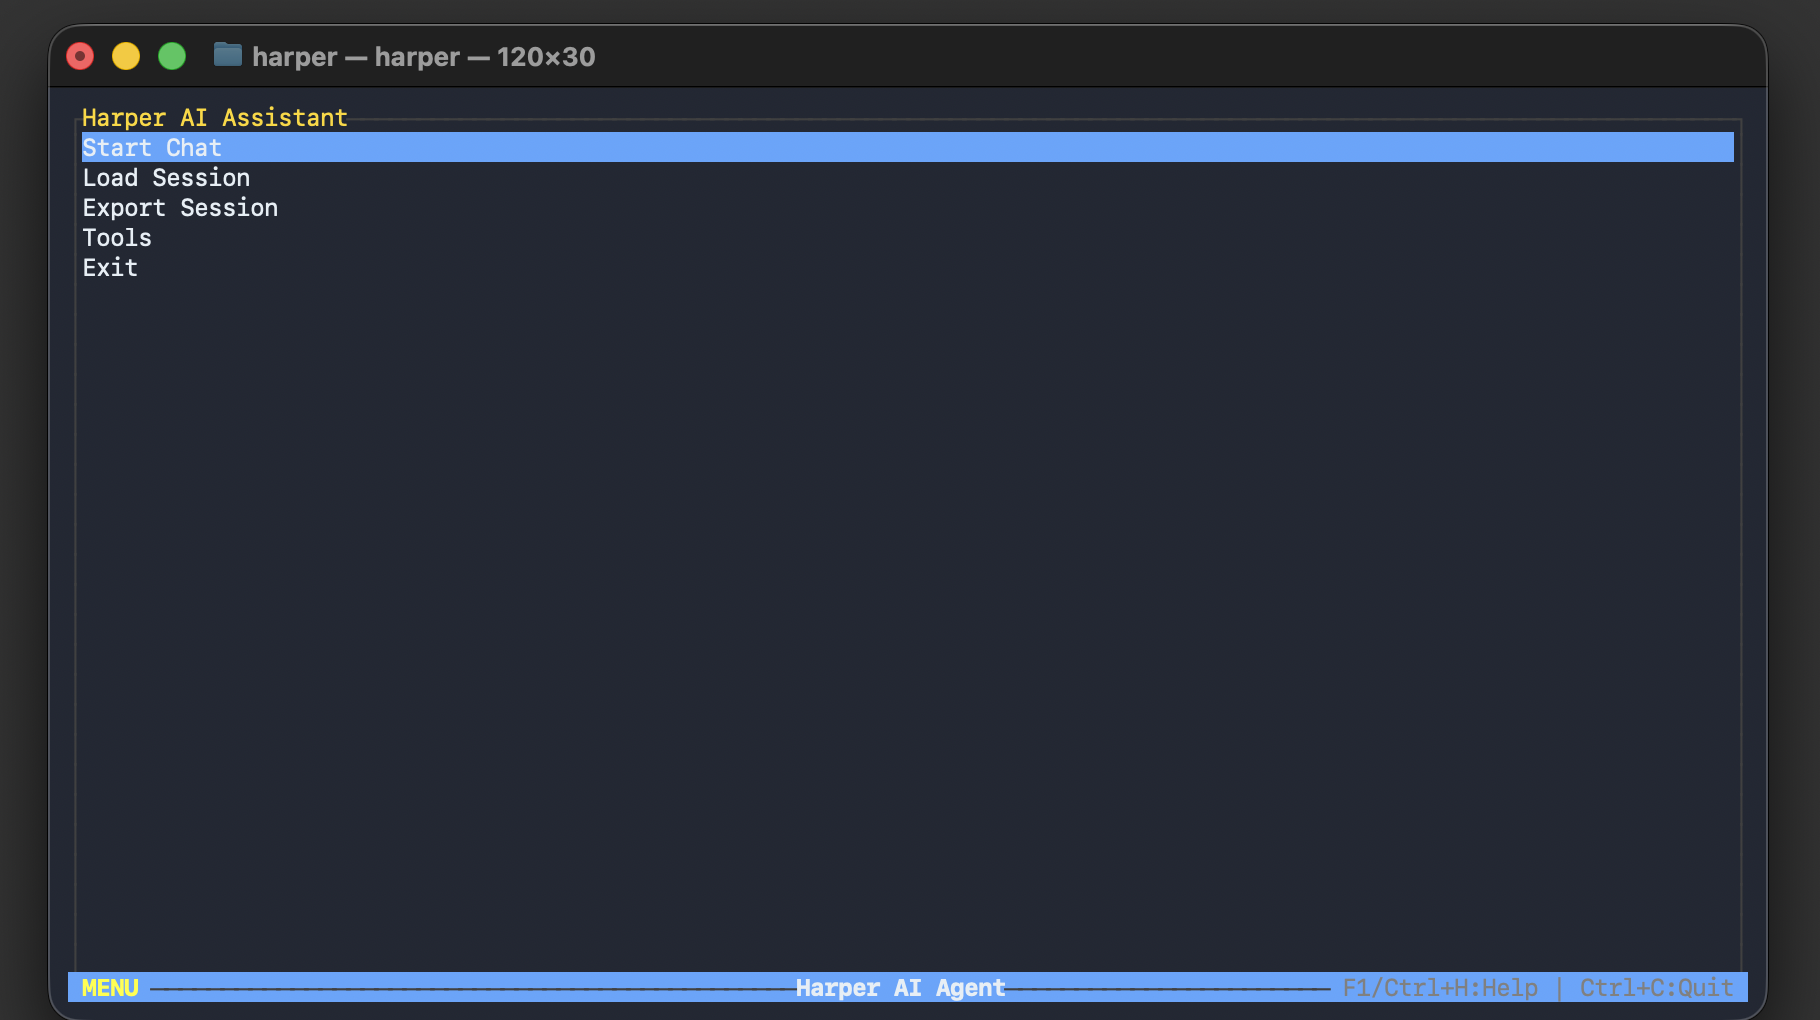
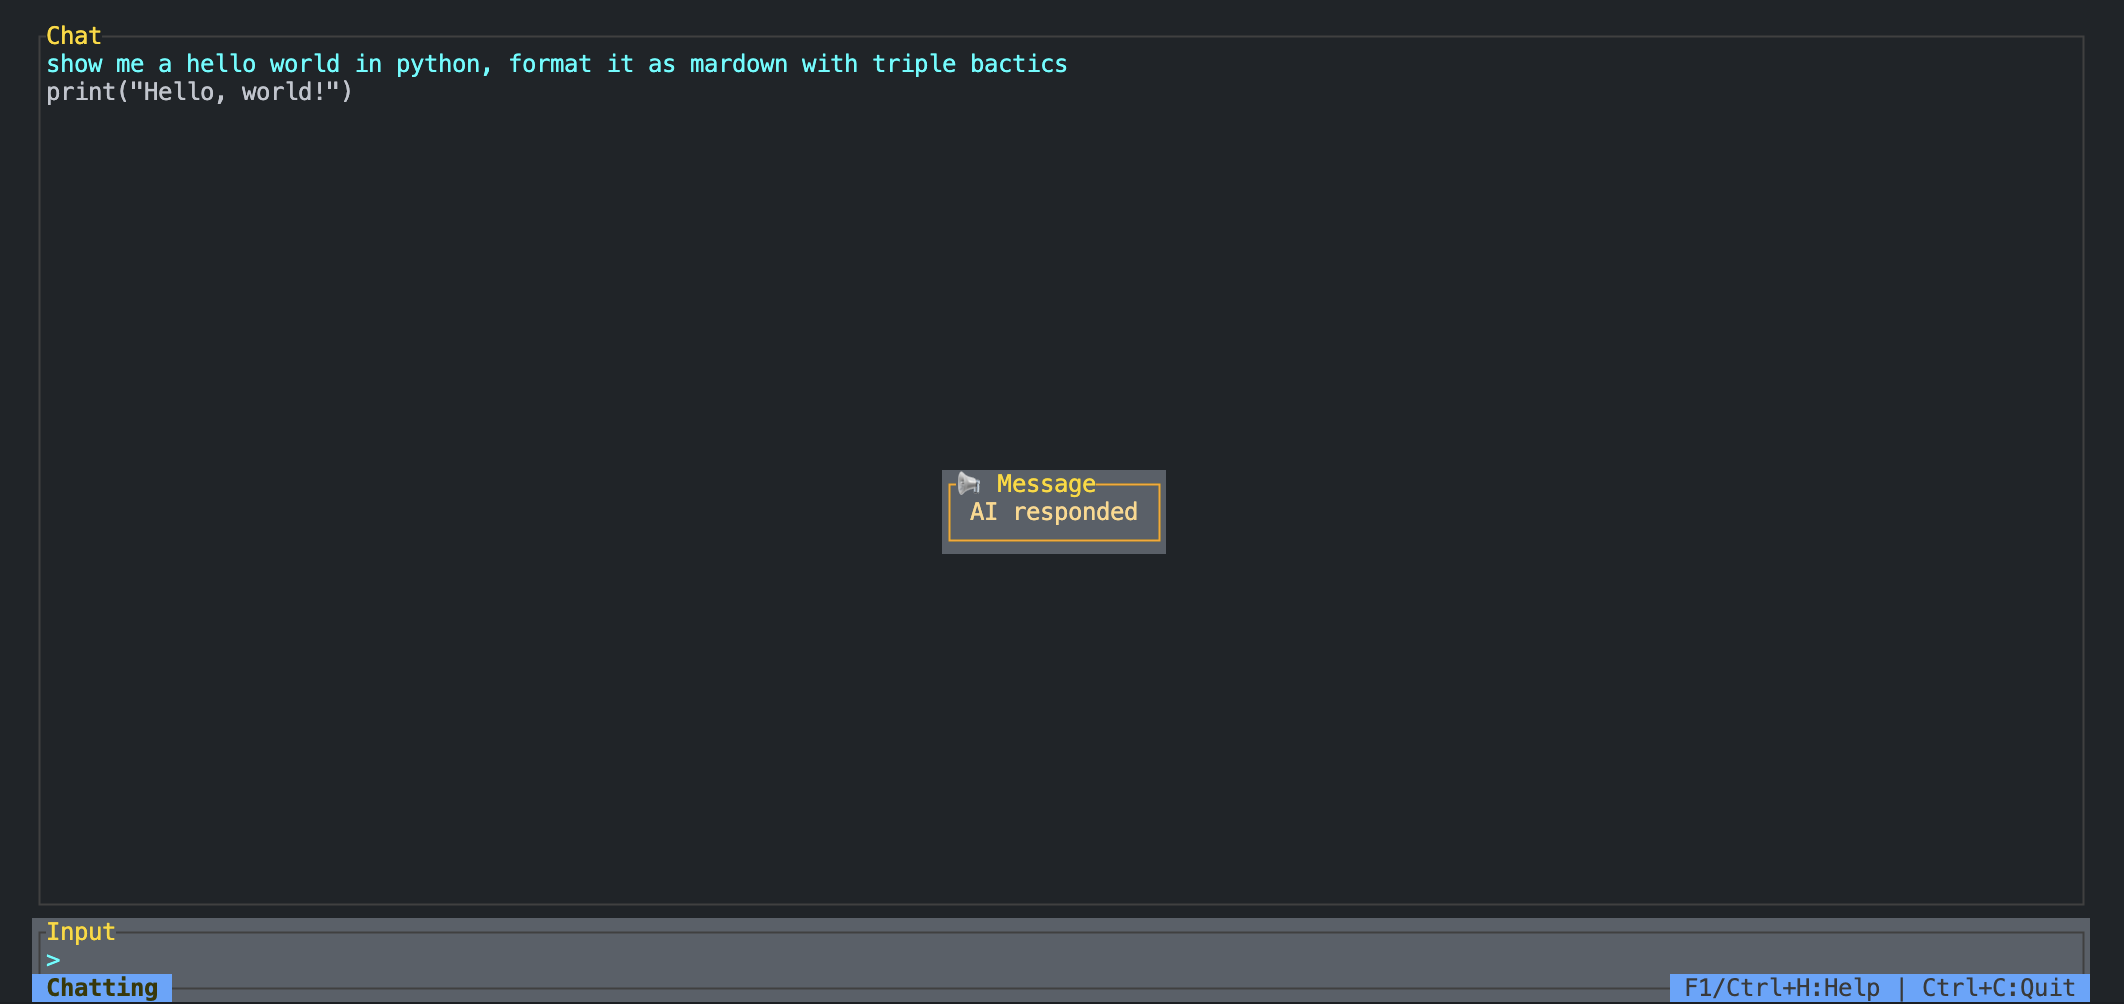
wip (#139)

Changed region(s): [[0.0, 0.8954, 0.9846, 1.0], [0.0, 0.0309, 0.9538, 0.2779], [0.4308, 0.4631, 0.5538, 0.5558]]

diff --git a/lib/harper-ui/src/interfaces/ui/widgets.rs b/lib/harper-ui/src/interfaces/ui/widgets.rs
@@ -102,15 +102,26 @@ pub fn draw(frame: &mut Frame, app: &TuiApp, theme: &Theme) {
             let message_lines: Vec<Line> = displayed_messages
                 .iter()
                 .flat_map(|msg| {
-                    let color = match msg.role.as_str() {
+                    let default_color = match msg.role.as_str() {
                         "user" => theme.input,
                         "assistant" => theme.output,
                         _ => theme.foreground,
                     };
-                    msg.content
-                        .lines()
-                        .map(|line| Line::styled(line, color))
-                        .collect::<Vec<_>>()
+                    let spans = parse_content_with_code(
+                        &theme.syntax_set,
+                        &theme.theme_set,
+                        &msg.content,
+                        default_color,
+                        &theme.syntax_theme,
+                    );
+                    if spans.is_empty() {
+                        msg.content
+                            .lines()
+                            .map(|line| Line::styled(line, default_color))
+                            .collect::<Vec<_>>()
+                    } else {
+                        vec![Line::from(spans)]
+                    }
                 })
                 .collect();
 
@@ -190,7 +201,7 @@ fn draw_menu(frame: &mut Frame, selected: usize, theme: &Theme) {
         .block(
             Block::default()
                 .borders(Borders::ALL)
-                .title("Harper AI Assistant")
+                .title("Harper")
                 .border_style(theme.border_style())
                 .title_style(theme.title_style()),
         )
@@ -329,18 +340,15 @@ fn draw_view_session(
 }
 
 fn draw_status_bar(frame: &mut Frame, app: &TuiApp, theme: &Theme) {
-    let mode = match &app.state {
-        AppState::Menu(_) => "MENU",
-        AppState::Chat(..) => "CHAT",
-        AppState::Sessions(_, _) => "SESSIONS",
-        AppState::ExportSessions(_, _) => "EXPORT",
-        AppState::Tools(_) => "TOOLS",
-        AppState::ViewSession(_, _, _) => "VIEW",
+    let status_text = match &app.state {
+        AppState::Menu(_) => " Ready ",
+        AppState::Chat(..) => " Chatting ",
+        AppState::Sessions(_, _) => " Sessions ",
+        AppState::ExportSessions(_, _) => " Export ",
+        AppState::Tools(_) => " Tools ",
+        AppState::ViewSession(_, _, _) => " Viewing ",
     };
 
-    // Enhanced status with provider info and shortcuts
-    let left_status = format!(" {} ", mode);
-    let center_status = "Harper AI Agent";
     let right_status = STATUS_BAR_SHORTCUTS;
 
     let area = frame.area();
@@ -352,7 +360,7 @@ fn draw_status_bar(frame: &mut Frame, app: &TuiApp, theme: &Theme) {
     };
 
     // Left section
-    let left_width = left_status.len() as u16;
+    let left_width = status_text.len() as u16;
     let left_area = Rect {
         x: 0,
         y: status_area.y,
@@ -360,31 +368,14 @@ fn draw_status_bar(frame: &mut Frame, app: &TuiApp, theme: &Theme) {
         height: 1,
     };
 
-    let left_widget = Paragraph::new(left_status).style(theme.highlight_style().bg(theme.accent));
+    let left_widget = Paragraph::new(status_text).style(theme.highlight_style().bg(theme.accent));
     frame.render_widget(left_widget, left_area);
-
-    // Center section
-    let center_width = center_status.len() as u16;
-    let center_x = (area.width - center_width) / 2;
-    let center_area = Rect {
-        x: center_x,
-        y: status_area.y,
-        width: center_width,
-        height: 1,
-    };
-
-    let center_widget = Paragraph::new(center_status).style(
-        Style::default()
-            .bg(theme.accent)
-            .fg(theme.foreground)
-            .add_modifier(Modifier::BOLD),
-    );
-    frame.render_widget(center_widget, center_area);
 
     // Right section
     let right_width = right_status.len() as u16;
+    let right_x = area.width.saturating_sub(right_width);
     let right_area = Rect {
-        x: area.width - right_width,
+        x: right_x,
         y: status_area.y,
         width: right_width,
         height: 1,
@@ -392,33 +383,6 @@ fn draw_status_bar(frame: &mut Frame, app: &TuiApp, theme: &Theme) {
 
     let right_widget = Paragraph::new(right_status).style(theme.muted_style().bg(theme.accent));
     frame.render_widget(right_widget, right_area);
-
-    // Fill remaining space
-    let fill_start = left_width;
-    let fill_end = center_x;
-    if fill_end > fill_start {
-        let fill_area = Rect {
-            x: fill_start,
-            y: status_area.y,
-            width: fill_end - fill_start,
-            height: 1,
-        };
-        let fill_widget = Paragraph::new("").style(Style::default().bg(theme.accent));
-        frame.render_widget(fill_widget, fill_area);
-    }
-
-    let fill_start2 = center_x + center_width;
-    let fill_end2 = area.width - right_width;
-    if fill_end2 > fill_start2 {
-        let fill_area2 = Rect {
-            x: fill_start2,
-            y: status_area.y,
-            width: fill_end2 - fill_start2,
-            height: 1,
-        };
-        let fill_widget2 = Paragraph::new("").style(Style::default().bg(theme.accent));
-        frame.render_widget(fill_widget2, fill_area2);
-    }
 }
 
 fn draw_message_overlay(frame: &mut Frame, message: &UiMessage, theme: &Theme) {

diff --git a/lib/harper-ui/src/interfaces/ui/theme.rs b/lib/harper-ui/src/interfaces/ui/theme.rs
@@ -14,8 +14,9 @@
 
 #[allow(dead_code)]
 use ratatui::style::{Color, Modifier, Style};
+use syntect::highlighting::ThemeSet;
+use syntect::parsing::SyntaxSet;
 
-#[derive(Debug, Clone)]
 pub struct Theme {
     pub background: Color,
     pub foreground: Color,
@@ -32,6 +33,8 @@ pub struct Theme {
     pub highlight: Color,
     pub selection: Color,
     pub syntax_theme: String,
+    pub syntax_set: SyntaxSet,
+    pub theme_set: ThemeSet,
 }
 
 impl Default for Theme {
@@ -52,13 +55,19 @@ impl Default for Theme {
             highlight: Color::Rgb(255, 255, 0),  // Yellow
             selection: Color::Rgb(70, 130, 180), // Steel blue
             syntax_theme: "base16-ocean.dark".to_string(),
+            syntax_set: SyntaxSet::load_defaults_newlines(),
+            theme_set: ThemeSet::load_defaults(),
         }
     }
 }
 
 impl Theme {
     pub fn dark() -> Self {
-        Self { ..Self::default() }
+        Self {
+            syntax_set: SyntaxSet::load_defaults_newlines(),
+            theme_set: ThemeSet::load_defaults(),
+            ..Self::default()
+        }
     }
 
     pub fn light() -> Self {
@@ -78,6 +87,8 @@ impl Theme {
             highlight: Color::Rgb(255, 235, 59), // Light yellow
             selection: Color::Rgb(0, 123, 255),  // Primary blue
             syntax_theme: "base16-ocean.light".to_string(),
+            syntax_set: SyntaxSet::load_defaults_newlines(),
+            theme_set: ThemeSet::load_defaults(),
         }
     }
 
@@ -107,6 +118,8 @@ impl Theme {
             highlight: Color::Rgb(255, 223, 93),   // GitHub highlight
             selection: Color::Rgb(58, 117, 215),   // GitHub selection
             syntax_theme: "base16-ocean.dark".to_string(),
+            syntax_set: SyntaxSet::load_defaults_newlines(),
+            theme_set: ThemeSet::load_defaults(),
         }
     }
 

diff --git a/formula/harper-ai.rb b/formula/harper-ai.rb
@@ -18,7 +18,7 @@ class HarperAi < Formula
 
   def install
     system "cargo", "build", "--release", "--manifest-path=Cargo.toml"
-    
+
     # Check both possible locations for binaries
     if File.exist?("bin/harper")
       bin.install "bin/harper" => "harper"

diff --git a/README.md b/README.md
@@ -1,10 +1,10 @@
 ```text
- _   _                         
+ _   _
 | | | | __ _ _ __ _ __   ___ _ __
 | |_| |/ _` | '__| '_ \ / _ \ '__|
-|  _  | (_| | |  | |_) |  __/ |   
-|_| |_|\__,_|_|  | .__/ \___|_|   
-                  |_|             
+|  _  | (_| | |  | |_) |  __/ |
+|_| |_|\__,_|_|  | .__/ \___|_|
+                  |_|
 ```
 
 # Harper
